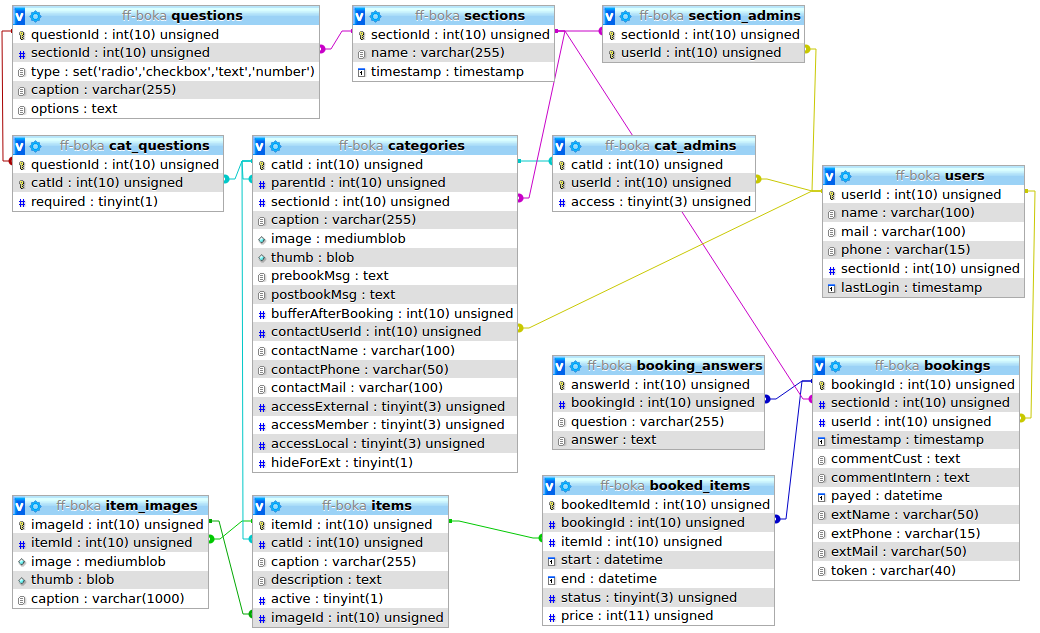
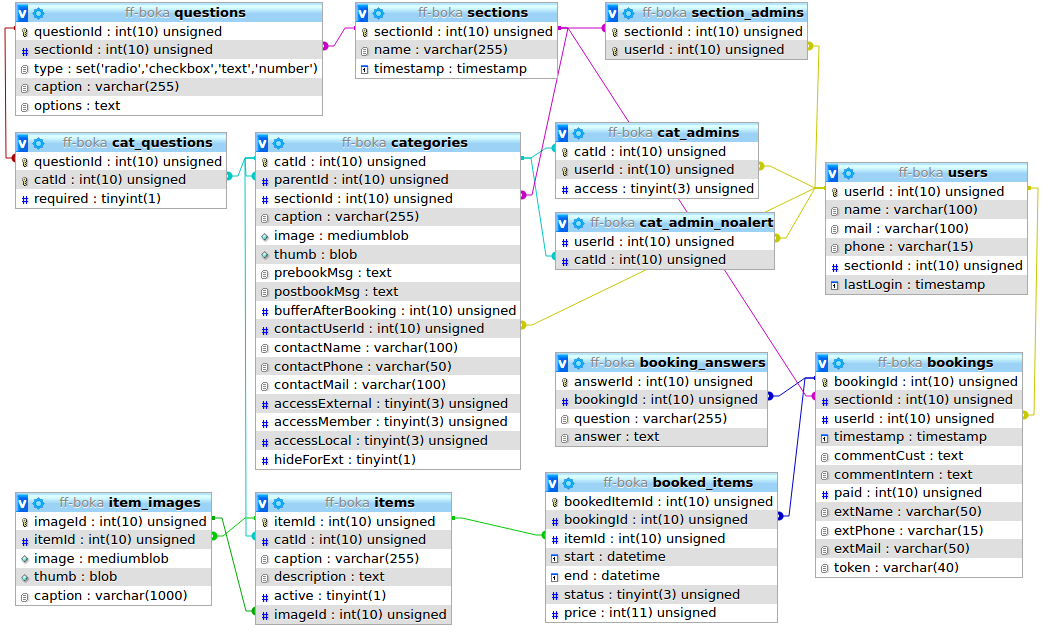
Notify booking admins on new bookings
Implements issue #55. Adds settings to opt out from such messages.

diff --git a/inc/ff-boka.js b/inc/ff-boka.js
@@ -949,7 +949,7 @@ $(document).on('pageshow', "#page-admin-category", function() {
  * Revoke category admin permissions
  * @param userId ID of affected user
  */
-function unsetAccess(id) {
+function unsetAccess(userId) {
     $.mobile.loading("show", {});
     $.get("?action=ajaxSetAccess&id=" + encodeURIComponent(userId) + "&access=" + ACCESS_NONE, function(data, status) {
         if (data!=0) {
@@ -1157,3 +1157,14 @@ function deleteAccount() {
 	}
 }
 
+function setNotificationOptout(catId, notify) {
+    $.getJSON("?action=ajaxSetNotificationOptout&catId=" + catId + "&notify=" + notify, function(data, status) {
+        switch (data.status) {
+        case "warning":
+        	alert(data.warning); break;
+        case "error":
+            alert(data.error); break;
+        }
+    });
+	
+}

diff --git a/templates/booking_alert.html b/templates/booking_alert.html
@@ -1,0 +1,13 @@
+<p><font face="Arial, sans-serif">Hej {{name}}.</font></p>
+
+<p><font face="Arial, sans-serif">Det har kommit in en ny bokning på Friluftsfrämjandets resursbokning som behöver bekräftas. Du kan bekräfta följande resurser:</font></p>
+
+<ul>{{items}}</ul>
+
+<p><font face="Arial, sans-serif"><a href='{{bookingLink}}'>Klicka här</a> för att se bokningen.</font></p>
+
+<p>Du måste vara inloggad för att se bokningen och bekräfta resurserna.</p>
+
+<hr>
+
+<p><font face="Arial, sans-serif">Detta är ett automatiskt meddelande från Friluftsfrämjandets resursbokning. Det går inte att svara på det.</font></p>

diff --git a/templates/confirm_booking.html b/templates/confirm_booking.html
@@ -4,7 +4,7 @@
 
 <p><font face="Arial, sans-serif">{{status}}</font></p>
 
-{{items}}
+<ul>{{items}}</ul>
 
 <ol style="list-style-type: parenthesized-lower-latin;">{{messages}}</ol>
 

diff --git a/book-sum.php b/book-sum.php
@@ -5,7 +5,6 @@ use FFBoka\FFBoka;
 use FFBoka\Booking;
 use FFBoka\Question;
 use FFBoka\Item;
-use FFBoka\Category;
 global $cfg;
 
 session_start();
@@ -97,28 +96,43 @@ switch ($_REQUEST['action']) {
 		// Set booking status of each item, and build confirmation string incl post-booking messages
 		$leastStatus = FFBoka::STATUS_CONFIRMED;
 		$messages = array();
-		$contData = array();
+		$rawContData = array();
+		$adminsToNotify = array();
 		foreach ($booking->items() as $item) {
-		    $cd = $item->category()->contactData();
-		    if ($cd) $contData[$cd][] = htmlspecialchars($item->category()->caption);
-		    $mailItems .= "<ul>";
+		    $cat = $item->category();
+		    // remember contact data for item
+		    $itemContact = $cat->contactData();
+		    if ($itemContact) $rawContData[$itemContact][] = htmlspecialchars($cat->caption);
+		    // Remember postbook messages and build string of reference numbers (e.g. (1), (2))
 		    $msgRef = "";
-		    foreach ($item->category()->postbookMsgs() as $msg) {
+		    foreach ($cat->postbookMsgs() as $msg) {
 			    if (in_array($msg, $messages)) $msgRef .= " (".(array_search($msg, $messages)+1).")";
 			    else { $messages[] = $msg; $msgRef .= "(".count($messages).")"; }
 		    }
+		    // Bullet list with booked items
 		    $mailItems .= "<li><b>" . htmlspecialchars($item->caption) . "</b> " . strftime("%a %F kl %k:00", $item->start) . " till " . strftime("%a %F kl %k:00", $item->end) . " $msgRef</li>";
-		    if ($item->category()->getAccess($currentUser) >= FFBoka::ACCESS_BOOK) $status = FFBoka::STATUS_CONFIRMED;
-		    else {
-		        if (in_array($item->bookedItemId, $conflicts)) $status = FFBoka::STATUS_CONFLICT;
-		        else $status = FFBoka::STATUS_PREBOOKED; 
+		    // Decide which status the booked item shall get
+		    if ($cat->getAccess($currentUser) >= FFBoka::ACCESS_BOOK) {
+		        $item->status = FFBoka::STATUS_CONFIRMED;
 		    }
-	        $item->status = $status;
-	        $leastStatus = $leastStatus & $status;
-	        $mailItems .= "</ul>";
+		    else {
+		        if (in_array($item->bookedItemId, $conflicts)) $item->status = FFBoka::STATUS_CONFLICT;
+		        else $item->status = FFBoka::STATUS_PREBOOKED; 
+		    }
+	        $leastStatus = $leastStatus & $item->status;
+	        // collect admins to notify about booking: array[userId][itemId1, itemId2...]
+	        foreach ($cat->admins(FFBoka::ACCESS_CONFIRM, TRUE) as $adm) {
+	            $admin = new User($adm['userId']);
+	            switch ($admin->getNotifyAdminOnNewBooking($cat)) {
+	                case "confirmOnly":
+	                    if ($item->status > FFBoka::STATUS_PREBOOKED) break; 
+	                case "yes":
+	                    $adminsToNotify[$adm['userId']][] = $item->bookedItemId;
+	            }
+	        }
 		}
 		$contactData = "";
-		foreach ($contData as $cd=>$captions) {
+		foreach ($rawContData as $cd=>$captions) {
 		    $contactData .= "<p>Kontakt vid frågor angående " . implode(" och ", array_unique($captions)) . ":<br>$cd</p>";
 		}
 		$booking->commentCust = $_REQUEST['commentCust'];
@@ -136,7 +150,7 @@ switch ($_REQUEST['action']) {
 		        $cfg['mailFrom'], // from address
 		        $cfg['mailFromName'], // from name
 		        is_null($booking->userId) ? $_REQUEST['extMail'] : $booking->user()->mail, // to
-		        "", // replyTo
+		        "", // replyTo (use From address)
 		        "Bokningsbekräftelse #{$booking->id}", // subject
 		        $cfg['SMTP'], // SMPT options
 		        "confirm_booking", // template name
@@ -154,6 +168,31 @@ switch ($_REQUEST['action']) {
 	    } catch(Exception $e) {
 	        $message = "Kunde inte skicka bekräftelsen:" . $e;
 	        break;
+	    }
+	    // Send notifications to admins
+	    foreach ($adminsToNotify as $id=>$itemIds) {
+	        $adm = new User($id);
+	        if ($adm->mail) { // can only send if admin has email address
+    	        $mailItems = "";
+    	        foreach ($itemIds as $itemId) {
+    	            $item = new Item($itemId, TRUE);
+    	            $mailItems .= "<li><b>" . htmlspecialchars($item->caption) . "</b> " . strftime("%a %F kl %k:00", $item->start) . " till " . strftime("%a %F kl %k:00", $item->end) . "</li>";
+    	        }
+        	    sendmail(
+        	        $cfg['mailFrom'], // from address
+        	        $cfg['mailFromName'], // from Name
+        	        $adm->mail, // to
+        	        "", // replyTo (use From address)
+        	        "Ny bokning att bekräfta", // subject
+        	        $cfg['SMTP'], // SMTP options
+        	        "booking_alert",
+        	        array(
+                        "{{name}}"=>htmlspecialchars($adm->name),
+        	            "{{items}}"=>$mailItems,
+        	            "{{bookingLink}}" => "{$cfg['url']}book-sum.php?bookingId={$booking->id}",
+        	        )
+    	        );
+	        }
 	    }
 		unset($_SESSION['bookingId']);
 		header("Location: index.php?action=bookingConfirmed&mail=" . urlencode(is_null($booking->userId) ? $_REQUEST['extMail'] : $booking->user()->mail));

diff --git a/userdata.php b/userdata.php
@@ -2,6 +2,8 @@
 use FFBoka\User;
 use FFBoka\Section;
 use FFBoka\Booking;
+use FFBoka\Category;
+use FFBoka\FFBoka;
 
 session_start();
 require(__DIR__."/inc/common.php");
@@ -13,6 +15,30 @@ if (!$_SESSION['authenticatedUser']) {
 }
 
 $currentUser = new User($_SESSION['authenticatedUser']);
+
+/**
+ * Show a list of all categories and their children where user has admin permissions,
+ * with switches to opt out of messages when new bookings arrive 
+ * @param User $user
+ * @param Category $cat
+ */
+function showNotificationOptout(User $user, Category $cat) {
+    if ($cat->getAccess($user, FALSE) >= FFBoka::ACCESS_CONFIRM) {
+        $notify = $user->getNotifyAdminOnNewBooking($cat);
+        ?>
+        <div class='ui-field-contain'>
+        	<label><?= htmlspecialchars($cat->caption) ?></label>
+        	<fieldset data-role="controlgroup" data-type="horizontal" data-mini="true">
+            	<label><input type="radio" name="optout-cat-<?= $cat->id ?>" value="0"<?= $notify=="no" ? " checked='checked'" : "" ?> onClick="setNotificationOptout(<?= $cat->id ?>, 'no');">Av</label>
+            	<label><input type="radio" name="optout-cat-<?= $cat->id ?>" value="1"<?= $notify=="confirmOnly" ? " checked='checked'" : "" ?> onClick="setNotificationOptout(<?= $cat->id ?>, 'confirmOnly');">Bekräfta</label>
+            	<label><input type="radio" name="optout-cat-<?= $cat->id ?>" value="2"<?= $notify=="yes" ? " checked='checked'" : "" ?> onClick="setNotificationOptout(<?= $cat->id ?>, 'yes');">Alla</label>
+        	</fieldset>
+        </div><?php
+    }
+    foreach ($cat->children() as $child) {
+        if ($child->showFor($user, FFBoka::ACCESS_CONFIRM)) showNotificationOptout($user, $child);
+    }
+}
 
 switch ($_REQUEST['action']) {
     case "bookingDeleted":
@@ -38,6 +64,17 @@ switch ($_REQUEST['action']) {
     		$message = "Fyll i namn, epostadress och mobilnummer, tack.";
     	}
     	break;
+    	
+    case "ajaxSetNotificationOptout":
+        header("Content-Type: application/json");
+        $ret = $currentUser->setNotifyAdminOnNewBooking($_REQUEST['catId'], $_REQUEST['notify']);
+        if ($ret === FALSE ) {
+            die(json_encode([ "status"=>"error", "error"=>"Något har gått fel. Kunde inte spara." ]));
+        } elseif ($ret === 0) {
+            die(json_encode([ "status"=>"warning", "warning"=>"OBS: Nu finns det inte någon bokningsansvarig kvar som får meddelande om nya bokningar som måste bekräftas!" ]));
+        } else {
+            die(json_encode([ "status"=>"OK" ]));
+        }
 }
 	
 
@@ -81,6 +118,23 @@ if ($_GET['first_login']) $message = "Välkommen till resursbokningen! Innan du 
 			} ?>
             </ul>
         </div>
+		
+		<?php
+		$sections = $currentUser->bookingAdminSections();
+		if (count($sections)) { ?>
+		<div data-role='collapsible'>
+			<h3>Notifieringar</h3>
+			<h4>Meddelanden vid nya bokningar</h4>
+			<p><small>I följande kategorier har du administratörsbehörighet. Här kan du ställa in om du vill få meddelanden när nya bokningar görs. "Bekräfta" innebär att du bara får meddelanden för preliminärbokningar som måste bekräftas av någon bokningsansvarig.</small></p>
+			<?php 
+    		foreach ($sections as $sec) {
+    		    echo "<p><b>" . htmlspecialchars($sec->name) . "</b></p>";
+    		    foreach ($sec->getMainCategories() as $cat) {
+    		        if ($cat->showFor($currentUser, FFBoka::ACCESS_CONFIRM)) showNotificationOptout($currentUser, $cat);
+    		    }
+    		} ?>
+        </div><?php
+		} ?>
 		
 		<div data-role='collapsible'>
 			<h3>Kontaktuppgifter</h3>

diff --git a/admin/bookings-d.php b/admin/bookings-d.php
@@ -4,7 +4,6 @@ use FFBoka\Section;
 use FFBoka\User;
 use FFBoka\Category;
 use FFBoka\Item;
-use FFBoka\Booking;
 
 session_start();
 require(__DIR__."/../inc/common.php");
@@ -33,20 +32,26 @@ if (!$section->showFor($currentUser, FFBoka::ACCESS_CONFIRM)) {
  */
 function showCat(Category $cat, User $user) {
     if ($cat->showFor($user, FFBoka::ACCESS_CONFIRM)) {
-        $items = $cat->items();
-        if (count($items)) {
-            echo "<h2>";
-            $elems = array_column($cat->getPath(), "caption");
-            array_shift($elems);
-            echo implode(" &rarr; ", $elems); 
-            echo "</h2>\n<table>\n";
+        // User has access to this or some child category
+        if ($cat->getAccess($user) >= FFBoka::ACCESS_CONFIRM) {
+            // User has sufficient access to this category and its items.
+            $items = $cat->items();
+            if (count($items)) {
+                echo "<h2>";
+                for ($elems = $cat->getPath(), $i = 1; $i < count($elems); $i++) {
+                    if ($i > 1) echo " &rarr; ";
+                    if ($cat->showFor($user, FFBoka::ACCESS_CATADMIN)) echo "<a href='#' onClick=\"openSidePanelOrWindow('/admin/category.php?catId={$elems[$i]['id']}');\">{$elems[$i]['caption']}</a>";
+                    else echo $elems[$i]['caption'];
+                }
+                echo "</h2>\n<table>\n";
+            }
+            foreach ($items as $item) {
+                echo "<tr><td class='col-caption" . ($item->active ? "" : " inactive") . "' onClick=\"showItemDetails({$item->id});\"><span title='" . htmlspecialchars($item->caption) . "'>" . htmlspecialchars($item->caption) . "</span></td>\n";
+                echo "<td class='col-freebusy'><div class='freebusy-bar' id='freebusy-item-{$item->id}' style='margin-bottom:0px;'></div></td></tr>\n";
+                $_SESSION['itemIds'][] = $item->id;
+            }
+            if (count($items)) echo "</table>\n";
         }
-        foreach ($items as $item) {
-            echo "<tr><td class='col-caption" . ($item->active ? "" : " inactive") . "' onClick=\"showItemDetails({$item->id});\"><span title='" . htmlspecialchars($item->caption) . "'>" . htmlspecialchars($item->caption) . "</span></td>\n";
-            echo "<td class='col-freebusy'><div class='freebusy-bar' id='freebusy-item-{$item->id}' style='margin-bottom:0px;'></div></td></tr>\n";
-            $_SESSION['itemIds'][] = $item->id;
-        }
-        if (count($items)) echo "</table>\n";
         foreach ($cat->children() as $child) showCat($child, $user);
     }
 }

diff --git a/inc/ffboka/category.php b/inc/ffboka/category.php
@@ -270,9 +270,10 @@ class Category extends FFBoka {
     /**
      * Get the granted access level for given user, taking into account inherited access.
      * @param \FFBoka\User $user
+     * @param bool $tieInSectionAdmin Whether to also include admin role set on section level
      * @return int Bitfield of granted access rights. For an empty (fake) category, returns ACCESS_CATADMIN.
      */
-    public function getAccess(User $user) {
+    public function getAccess(User $user, bool $tieInSectionAdmin=TRUE) {
         // On fake category, assume full cat access and don't go further
         if (!$this->id) return FFBoka::ACCESS_CATADMIN;
         $access = FFBoka::ACCESS_NONE;
@@ -288,10 +289,10 @@ class Category extends FFBoka {
         }
         if ($this->parentId) {
             // Tie in access rules from parent category
-            $access = $access | $this->parent()->getAccess($user);
-        } else {
+            $access = $access | $this->parent()->getAccess($user, $tieInSectionAdmin);
+        } elseif ($tieInSectionAdmin) {
             // Tie in access rules from section
-            $access = $access | $this->section()->getAccess($user);
+            $access = $access | $this->section()->getAccess($user, $tieInSectionAdmin);
         }
         return $access;
     }
@@ -319,13 +320,21 @@ class Category extends FFBoka {
     /**
      * Retrieve all admins for category
      * @param int $access Return all entries with at least this access level.
+     * @param bool $inherit Even return admins from superordinate categories
      * @return array [userId, name, access]
      */
-    public function admins(int $access=FFBoka::ACCESS_READASK) {
+    public function admins(int $access=FFBoka::ACCESS_READASK, bool $inherit=FALSE) {
         if (!$this->id) return array();
         $stmt = self::$db->prepare("SELECT userId, name, access FROM cat_admins INNER JOIN users USING (userId) WHERE catId={$this->id} AND access>=? ORDER BY users.name");
         $stmt->execute(array($access));
-        return $stmt->fetchAll(PDO::FETCH_ASSOC);
+        $admins = $stmt->fetchAll(PDO::FETCH_ASSOC);
+        if ($inherit && $this->parentId) {
+            // Tie in admins from parent category
+            foreach ($this->parent()->admins($access, TRUE) as $inh) {
+                if (!in_array($inh['userId'], array_column($admins, "userId"))) $admins[] = $inh;
+            }
+        }
+        return $admins;
     }
     
     /**

diff --git a/inc/ffboka/user.php b/inc/ffboka/user.php
@@ -179,4 +179,45 @@ class User extends FFBoka {
         }
         return $admSections;
     }
+    
+    /**
+     * Returns whether user as a booking admin shall receive mails on new bookings in given category
+     * @param Category $cat Category for which to return the information
+     * @return string yes|confirmOnly|no If confirmOnly, the user shall only be notified on new
+     * bookings that need to be confirmed. 
+     */
+    public function getNotifyAdminOnNewBooking(Category $cat) {
+        $stmt = self::$db->query("SELECT notify FROM cat_admin_noalert WHERE userId={$this->id} AND catId={$cat->id}");
+        if ($row = $stmt->fetch(\PDO::FETCH_OBJ)) {
+            return $row->notify;
+        } else {
+            return "yes";
+        }
+    }
+
+    /**
+     * Set whether to notify a booking admin user on new bookings in given category
+     * @param int $catId Category ID for which to set the information
+     * @param string $value no|confirmOnly|yes
+     * @throws \Exception if $value is not one of the allowed values.
+     * @return boolean|int On success, returns the remaining number of admins receiving
+     * notifications in this category. Returns FALSE on failure
+     */
+    public function setNotifyAdminOnNewBooking(int $catId, string $value) {
+        if ($value=="yes") {
+            if (self::$db->exec("DELETE FROM cat_admin_noalert WHERE userId={$this->id} AND catId=$catId")===FALSE) return FALSE;
+        } elseif ($value=="no" || $value=="confirmOnly") {
+            if (self::$db->exec("INSERT INTO cat_admin_noalert SET userId={$this->id}, catId=$catId, notify='$value' ON DUPLICATE KEY UPDATE notify='$value'")===FALSE) return FALSE;
+        } else {
+            throw new \Exception("$value is not a valid value for admin notification.");
+        }
+        $cat = new Category($catId);
+        $remaining = 0;
+        foreach ($cat->admins(FFBoka::ACCESS_CONFIRM, TRUE) as $admin) {
+            $u = new User($admin['userId']);
+            if ($u->getNotifyAdminOnNewBooking($cat)!='no') $remaining++;
+        }
+        return $remaining;
+        
+    }
 }

diff --git a/inc/common.php b/inc/common.php
@@ -159,7 +159,7 @@ function head(string $caption, $currentUser=NULL) {
 		<ul data-role="listview">
 			<li data-icon="home"><a href="/index.php" data-transition='slide' data-direction='reverse' data-rel="close">Startsida</a></li><?php
 			if ($_SESSION['authenticatedUser']) { ?>
-				<li data-icon="user"><a href="/userdata.php" data-transition='slide' data-rel="close"><?= htmlspecialchars($currentUser->name) ?></a></li>
+				<li data-icon="user"><a href="/userdata.php" data-transition='slide' data-rel="close">Min sida</a></li>
 				<li data-icon="power"><a href="/index.php?logout" data-rel="close">Logga ut</a></li><?php
 				foreach ($currentUser->bookingAdminSections() as $section) {
 				    echo "<li data-icon='calendar'><a href='#' onClick='openBookingAdmin({$section->id});' data-ajax='false' data-rel='close'>Bokningsadmin " . htmlspecialchars($section->name) . "</a></li>\n";

diff --git a/cron.php b/cron.php
@@ -34,3 +34,5 @@ foreach ($data->results as $ass) {
 }
 // Delete all records not affected by the update
 $db->exec("DELETE FROM assignments WHERE TIMESTAMPDIFF(SECOND, timestamp, NOW())>10");
+
+// Delete records from cat_admin_noalert which do not any more belong to a user with admin rights 
